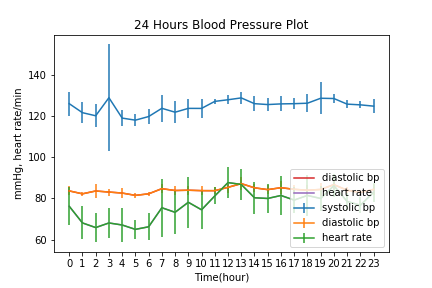
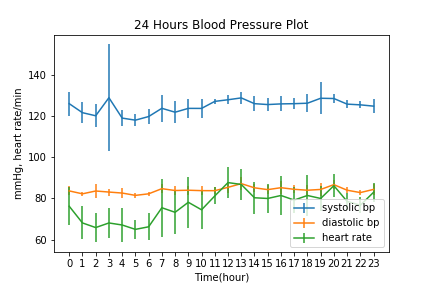
[冠志] 修正

diff --git a/asus_vivo_watch_bp/omnicare_tools/bloodpressure.py b/asus_vivo_watch_bp/omnicare_tools/bloodpressure.py
@@ -66,8 +66,8 @@ class Blood_pressure():
             plt.errorbar(table.index, table['dia'], yerr = standardDeviation['dia'], label='diastolic bp')
             plt.errorbar(table.index, table['hr'], yerr = standardDeviation['hr'], label='heart rate')
 #            plt.plot(table['sys'], label='systolic bp')
-            plt.plot(table['dia'], label='diastolic bp')
-            plt.plot(table['hr'], label='heart rate')
+#            plt.plot(table['dia'], label='diastolic bp')
+#            plt.plot(table['hr'], label='heart rate')
             plt.legend(loc='lower right')
             plt.xlabel('Time(hour)')
             plt.ylabel('mmHg, heart rate/min')
